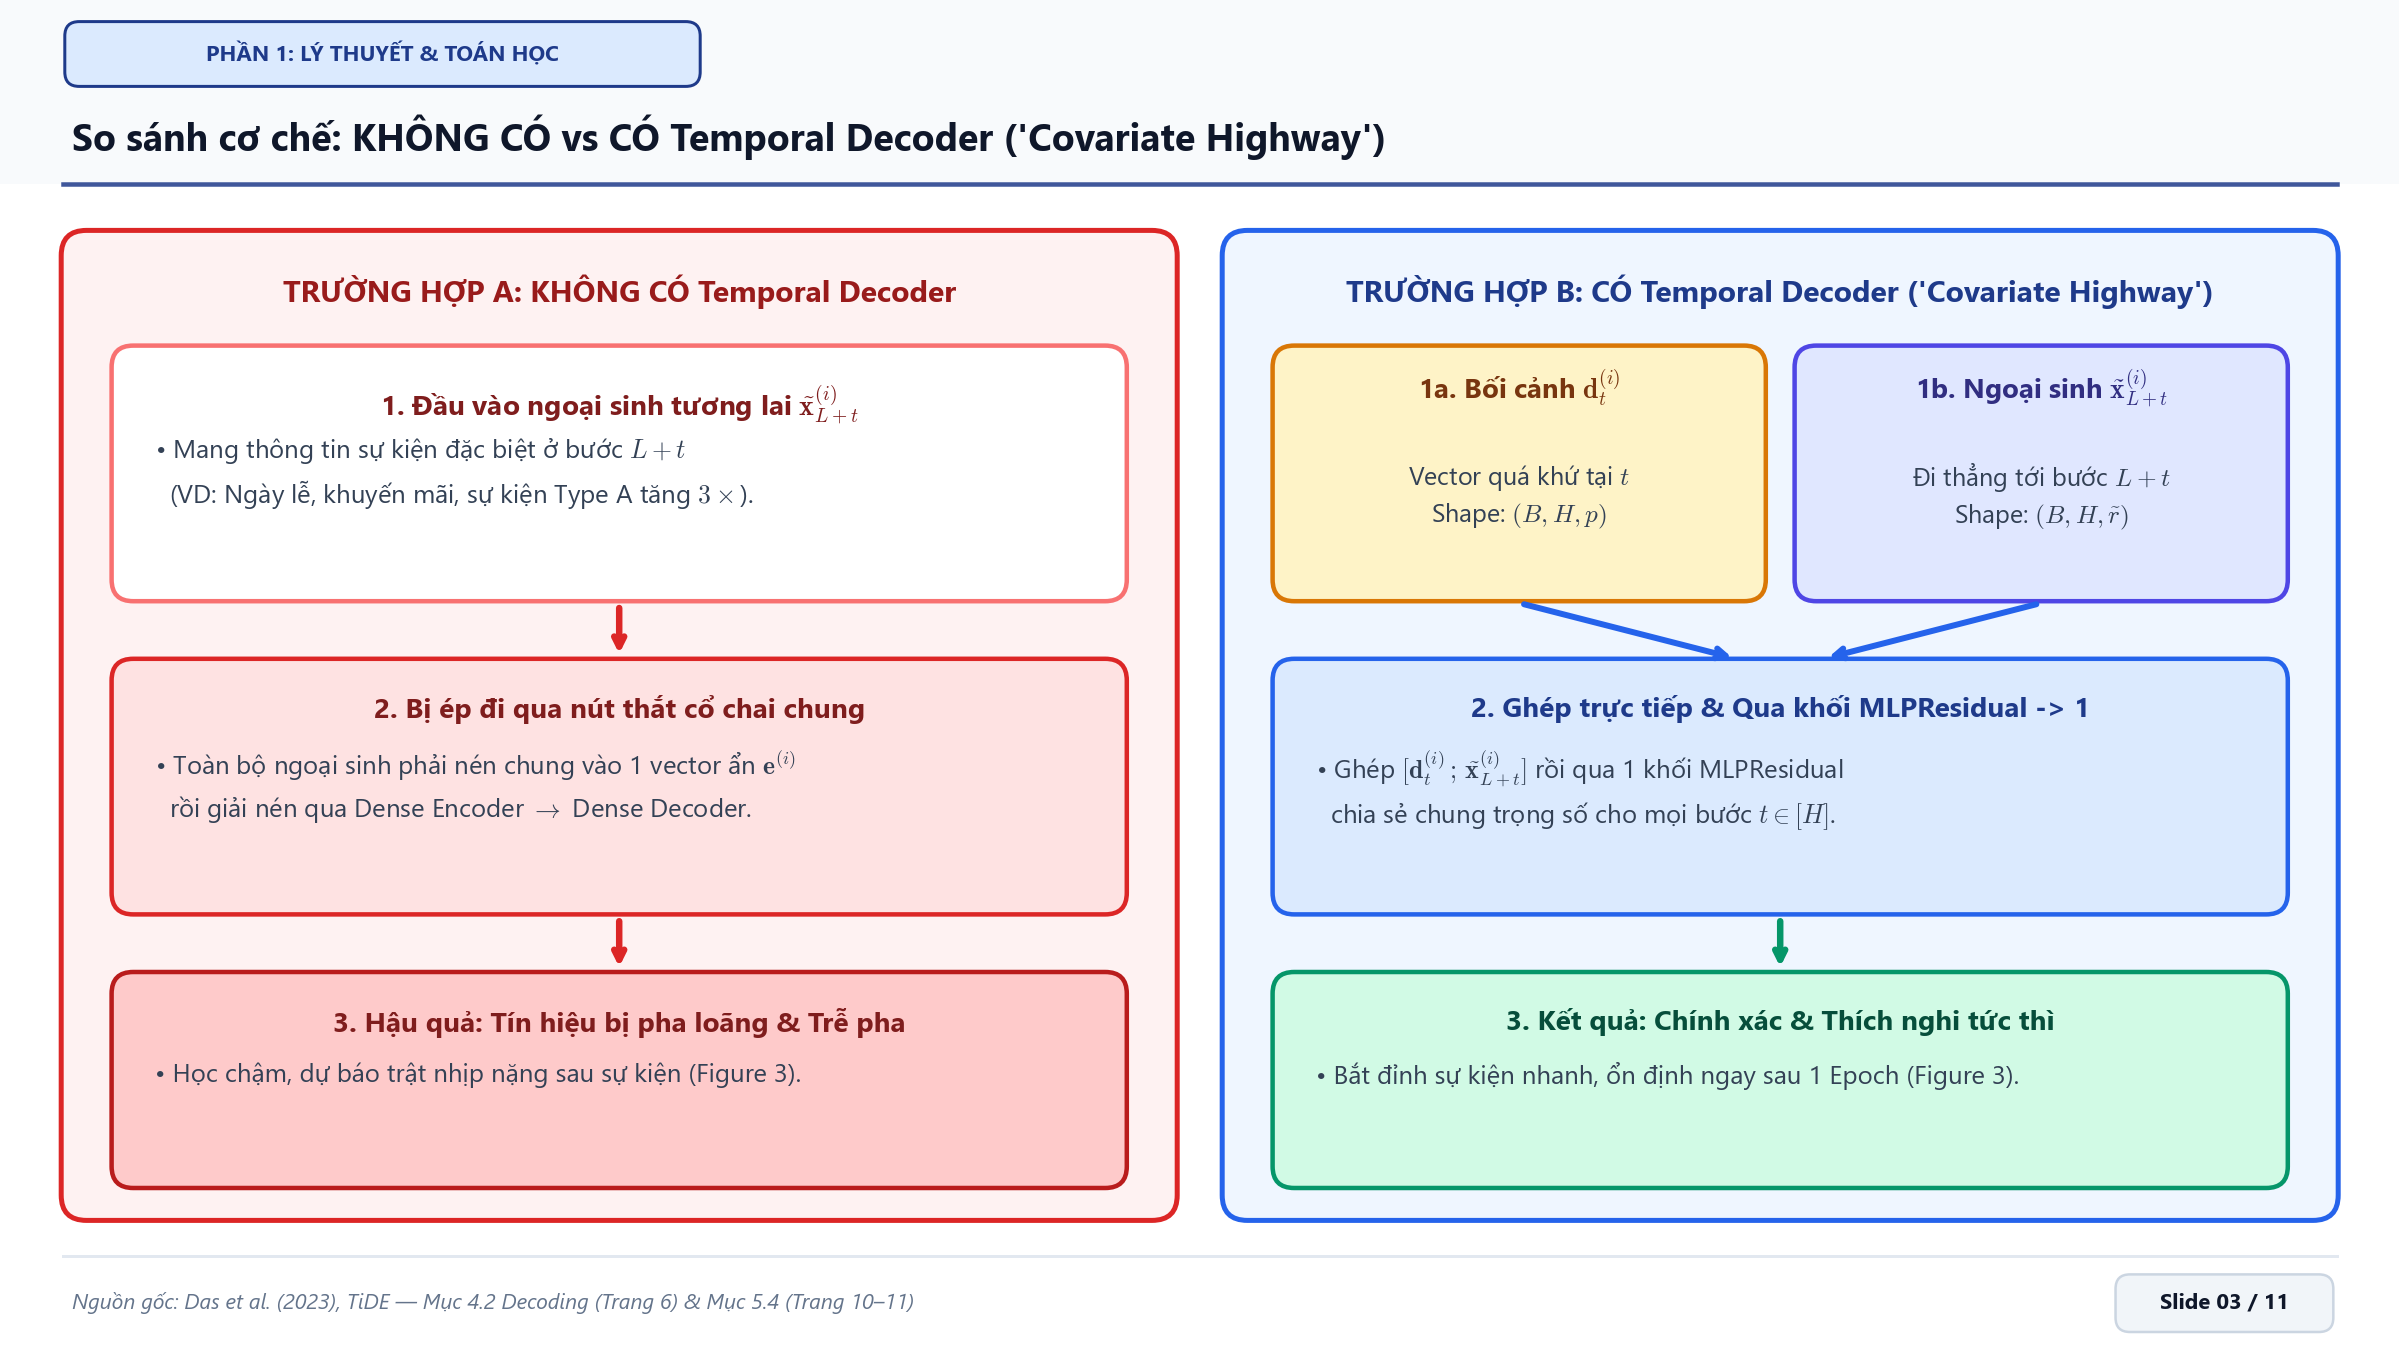
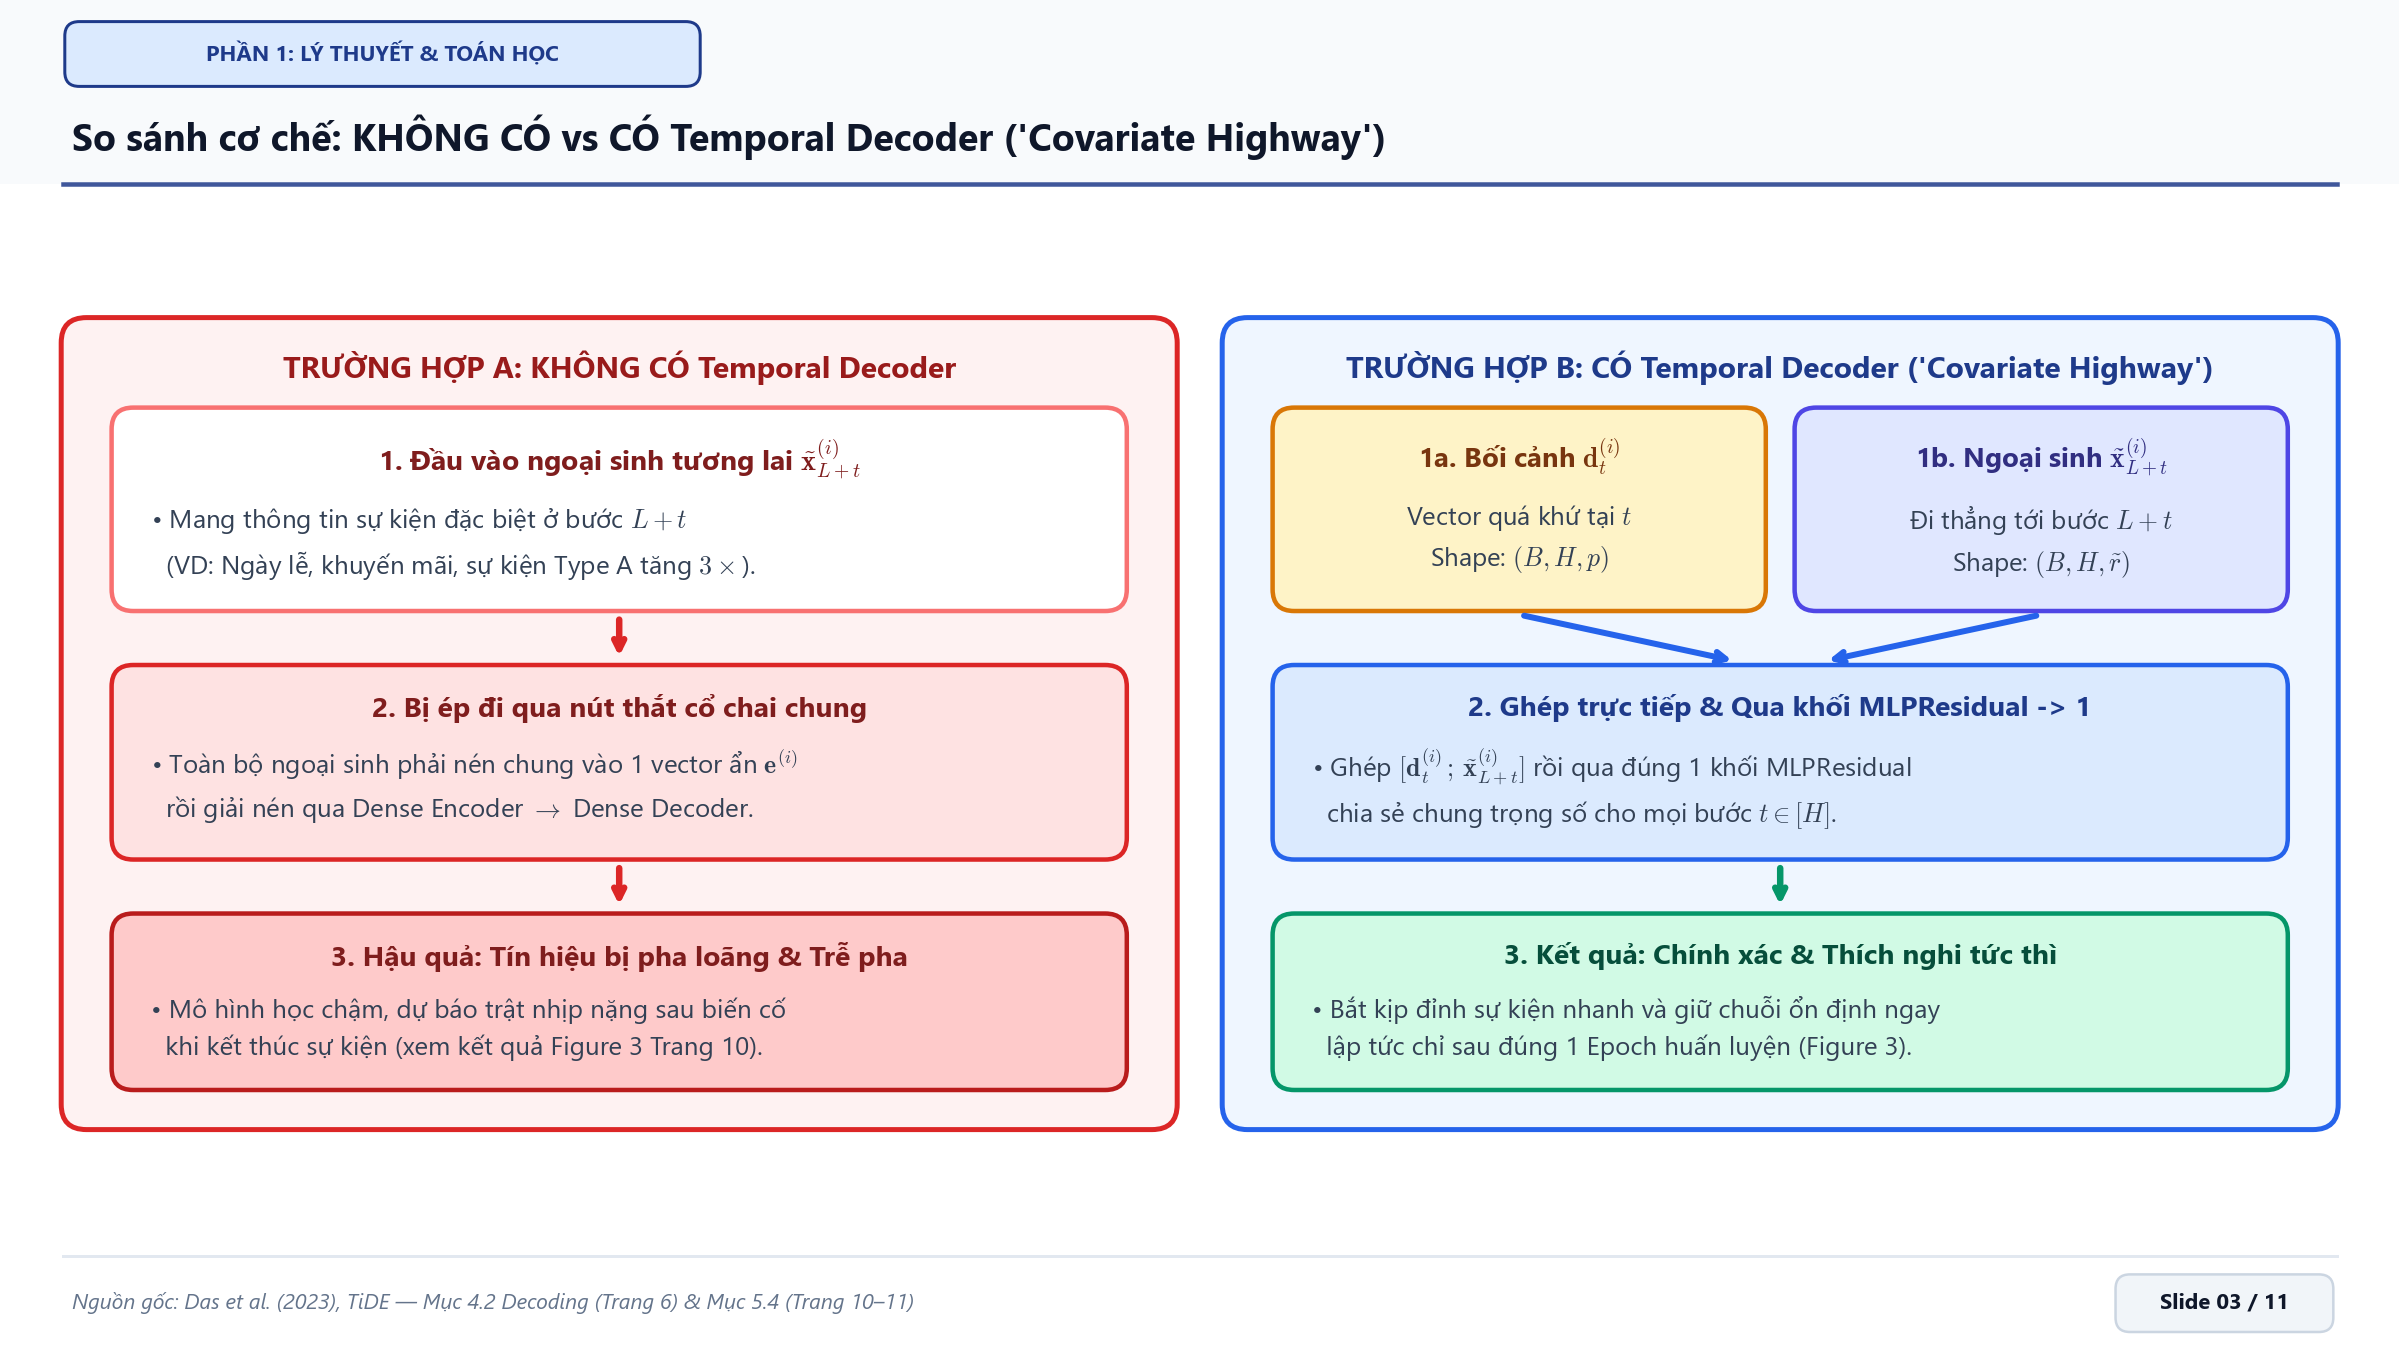
style(slide): enforce zero-dead-space auto-fit card heights across all 11 slides & update rule_slide.md

Changed region(s): [[0.0308, 0.56, 0.9871, 0.9333], [0.0, 0.1556, 0.9871, 0.5289]]

diff --git a/tasks-Hieu/presentation/slide/rule_slide.md b/tasks-Hieu/presentation/slide/rule_slide.md
@@ -23,9 +23,9 @@
   * **Footer bắt buộc ghi rõ nguồn gốc cụ thể:** Phải ghi chính xác vị trí xuất xứ của nội dung trên bài báo (Tên mục, Số `Figure`/`Table`, Số trang) và/hoặc vị trí dòng code trong repository (VD: `models.py#L141-L214`, `simulate_forward_pass.py#L228-L266`).
   * **Đánh số slide rõ ràng:** Góc dưới bên phải bắt buộc có huy hiệu đánh số liên tục dạng `Slide XX / NN` (VD: `Slide 01 / 11` → `Slide 11 / 11`).
 * **Typography & Khoảng cách trong Card (Rất quan trọng):**
-  * **Cỡ chữ đủ lớn để chiếu hội trường:** Nội dung text trong card tối thiểu **`10.1–10.8 pt`**; tiêu đề card **`11.2–11.8 pt`**; khoảng cách dòng thoáng (`linespacing = 1.48–1.58`). Tránh viết chữ quá nhỏ hoặc nhồi quá nhiều chữ vào 1 hộp.
+  * **Cỡ chữ đủ lớn để chiếu hội trường:** Nội dung text trong card tối thiểu **`10.5–11.5 pt`**; tiêu đề card **`11.5–12.2 pt`**; khoảng cách dòng thoáng (`linespacing = 1.50–1.58`). Tránh viết chữ quá nhỏ hoặc nhồi quá nhiều chữ vào 1 hộp.
   * **Thu hẹp khoảng cách giữa Title và Text:** Nội dung trong card phải được neo từ trên xuống (`va='top'`) ngay bên dưới tiêu đề (`Title`), tuyệt đối không căn giữa theo chiều dọc khiến phần đầu và thân card bị tách bởi khoảng trống lớn thừa thãi.
-  * **Card vừa khít nội dung:** Điều chỉnh kích thước card (*fit*) cân đối với lượng chữ, giữ lề đồng đều giữa các cột/hàng.
+  * **Card BẮT BUỘC vừa khít nội dung (*Auto-Fit*, cấm chừa khoảng trống rỗng):** Chiều cao mỗi card phải **co khít chính xác** theo chiều cao thực tế của tiêu đề + toàn bộ nội dung chữ bên trong (chỉ chừa phần lề padding trên/dưới đồng đều `~0.16–0.22 in`, tuyệt đối không đặt chiều cao cố định quá lớn làm nửa dưới card bị bỏ trống). Các card cùng một hàng ngang nên có số dòng tương đồng nhau để khi co khít cùng một chiều cao hàng (`row_h`), không có card nào bị dư khoảng trắng thừa ở đáy.
   * **Sạch cú pháp thô:** Khi render ảnh PNG (Matplotlib/Pillow), tuyệt đối không để sót ký tự Markdown thô như `**in đậm**` hay `` `code` ``.
 
 ---
@@ -78,7 +78,7 @@
 
 ## ✅ Checklist Nghiệm thu trước khi Commit
 
-- [ ] Tất cả slide dùng chung chuẩn **16:9**, đồng nhất Header/Footer, cỡ chữ nội dung `>= 10 pt` và khoảng cách Title-to-Body gọn chặt.
+- [ ] Tất cả slide dùng chung chuẩn **16:9**, đồng nhất Header/Footer, cỡ chữ nội dung `>= 10.5 pt`, khoảng cách Title-to-Body gọn chặt và **toàn bộ card co khít đúng chiều cao chữ (không còn khoảng trắng rỗng thừa ở cuối card)**.
 - [ ] Đã đánh số thứ tự chính xác `Slide 01 / NN` → `Slide NN / NN` cả trong ảnh PNG lẫn toàn bộ file `.md` (`README.md`, `slide_01..03`, `slide_images_gallery.md`, `script_thuyet_trinh_tung_slide.md`).
 - [ ] Đã mở kiểm tra trực quan **từng ảnh PNG** (không chữ tràn viền, không mũi tên đè chữ, không ký tự `**` / `` ` `` thô).
 - [ ] Đã kiểm tra tự động toàn bộ liên kết `./images/*.png` không bị gãy link nào và tuân thủ [`RULE.md`](../../../RULE.md).
